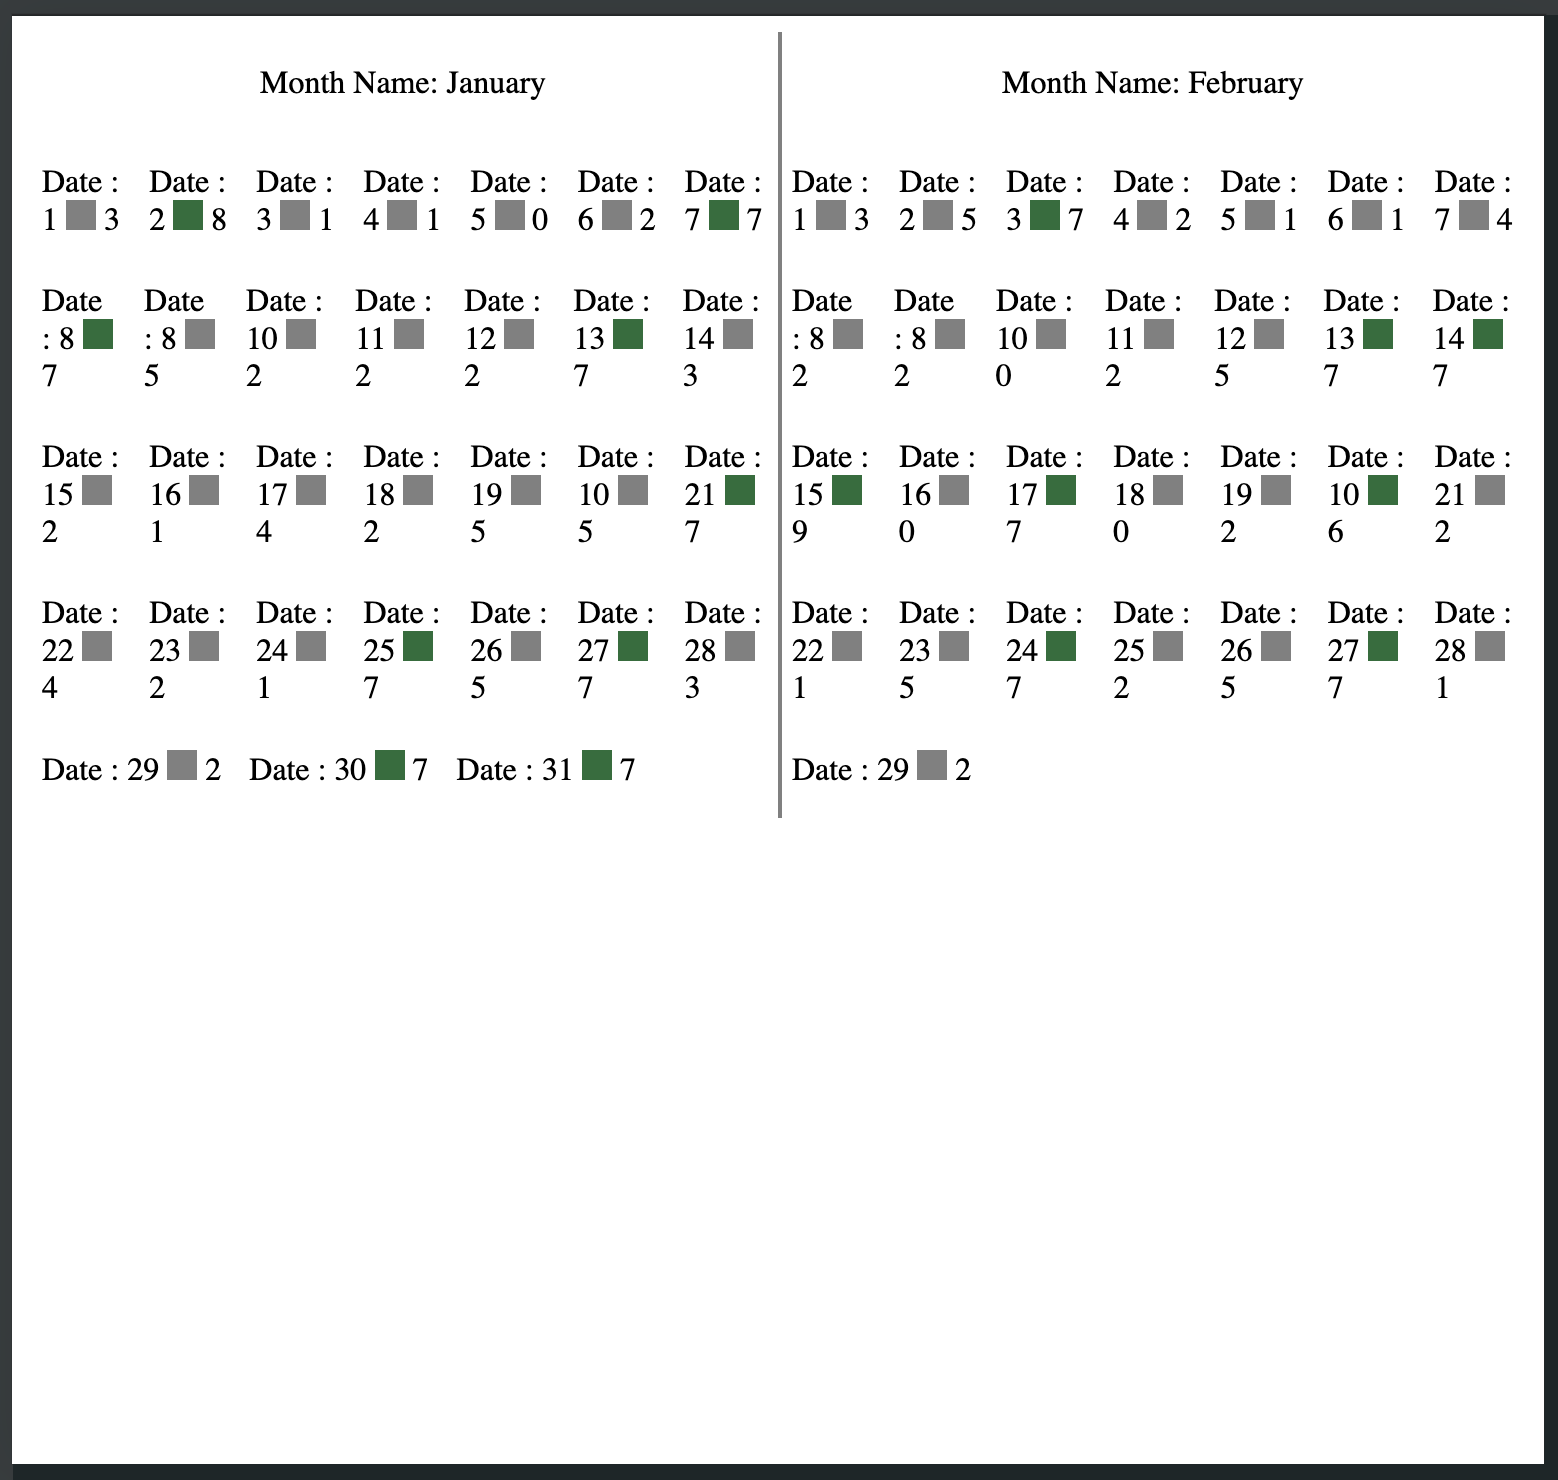
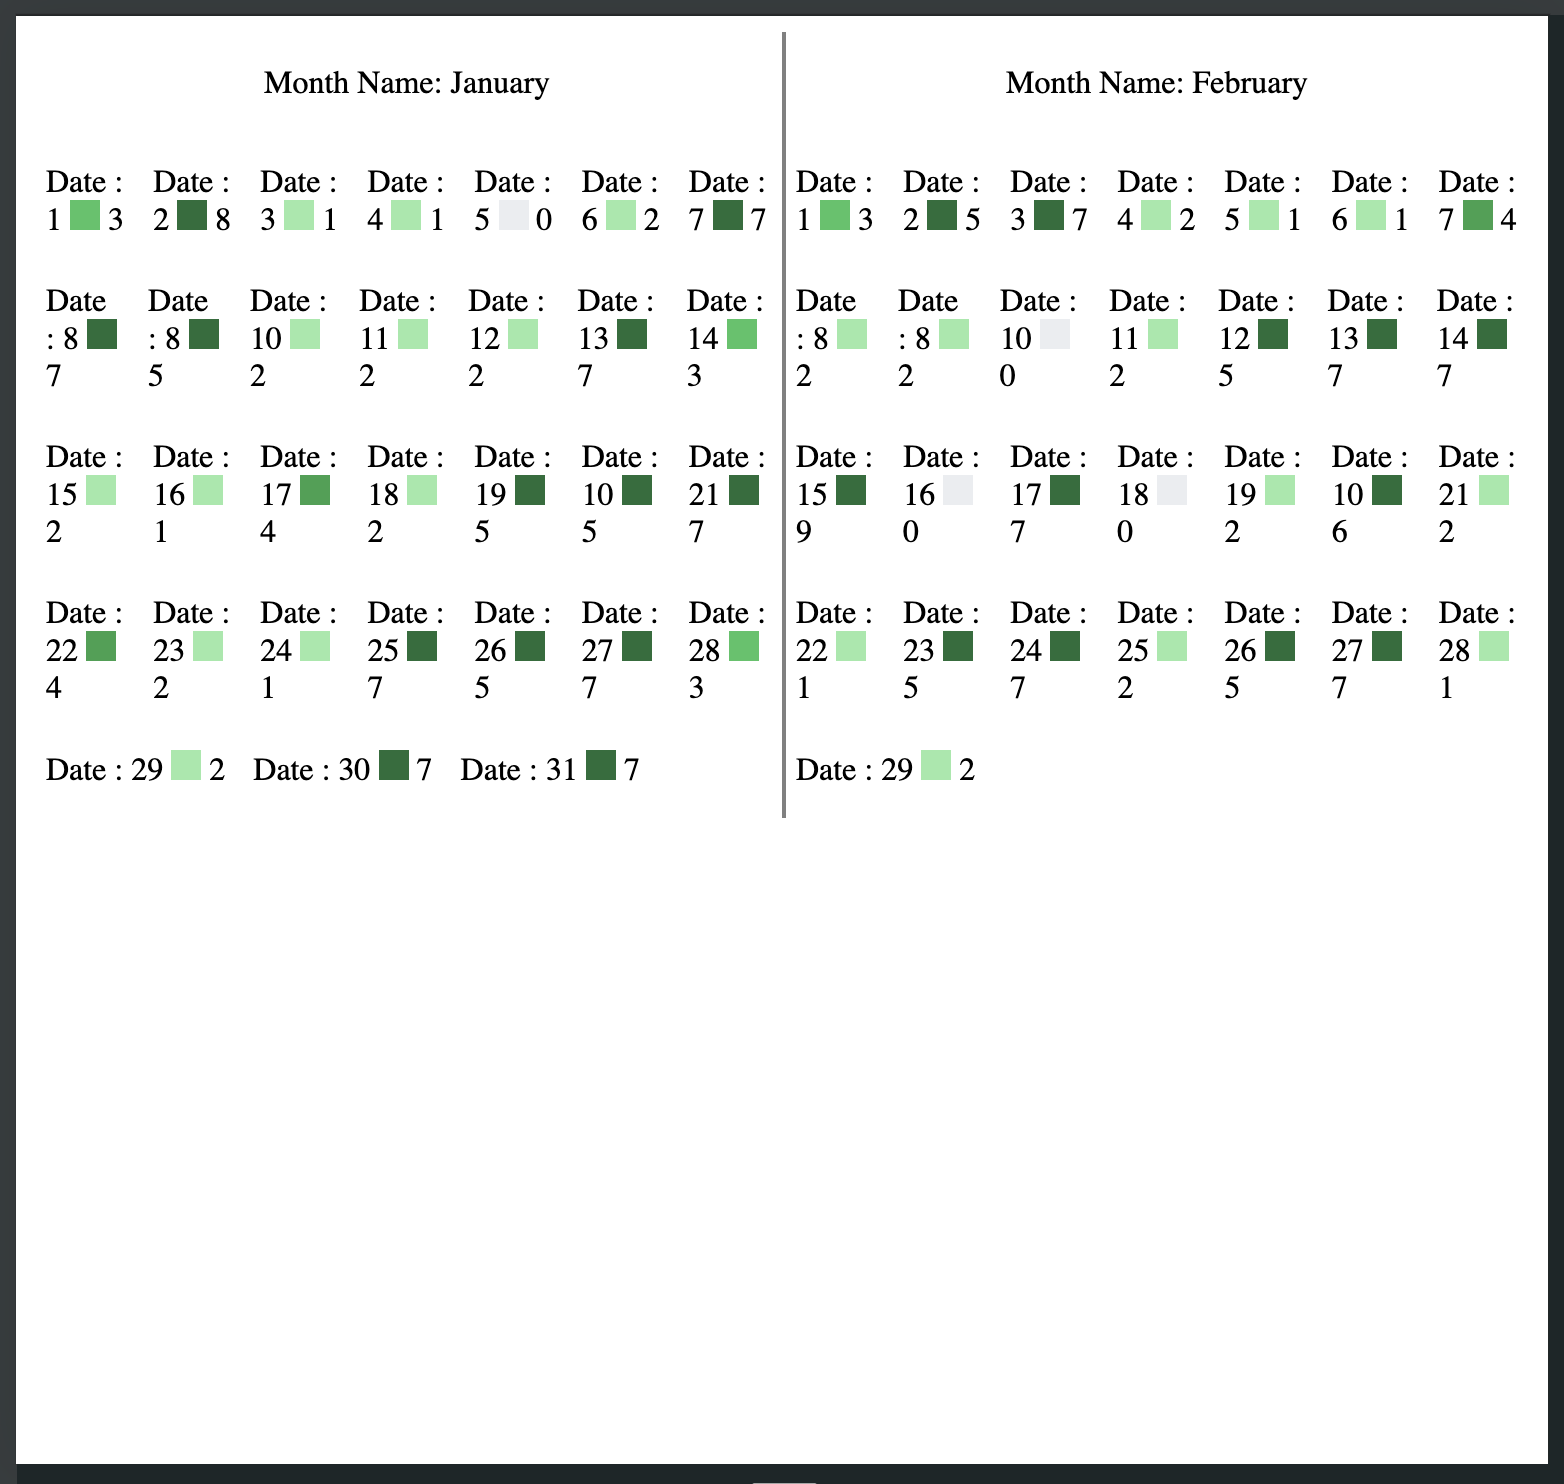
modification for color

diff --git a/src/components/color-represent/color-represent.component.ts b/src/components/color-represent/color-represent.component.ts
@@ -35,9 +35,12 @@ export class ColorRepresentComponent implements AfterViewInit, OnChanges {
    this.colorEle.nativeElement.style.backgroundColor = this.getBackgroundColor(this.day.contibutionsCount);
   }
   getBackgroundColor(range: number){
+    if(range == 0){
+      return '#EBEDF0'
+    }
     let color = null
     this.colorCollection.forEach((colorRange)=>{
-      if(range> colorRange.range[0] && range < colorRange.range[1]){
+      if(range >= colorRange.range[0] && range <= colorRange.range[1]){
         color = colorRange.color;
       }
     })
